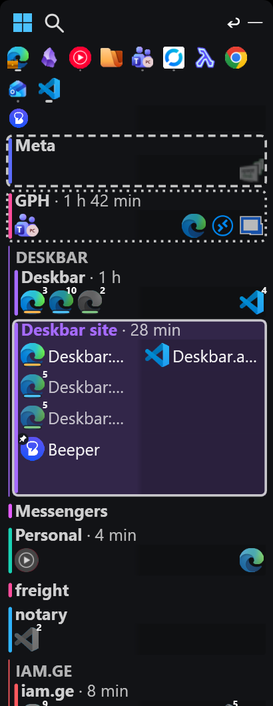
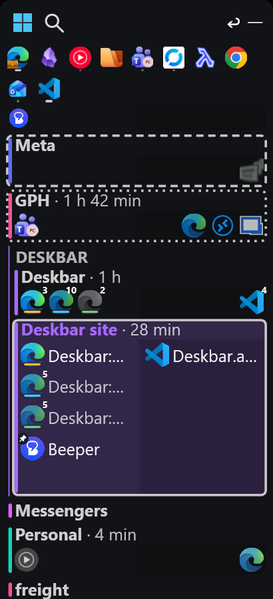
Show the bar's lower part under the hero
The hero now shows the same capture in two cuts: the pins and workspace
rows fading out, then the lower part fading in below it, with the usage
meters, now playing, tray, volume, notifications and clock. The rows in
between are left out rather than stitched together.

*opus5.5*

diff --git a/site/index.html b/site/index.html
@@ -114,27 +114,42 @@
           a 150% display, 410 pixels wide. Windows drew it natively at that size, so the 1.5x
           file is shown pixel for pixel at 273 points, with the text at its true weight.
           Shrinking a bigger render thins the strokes and stretching a smaller one blurs them,
-          which is why neither is done. bar-hero-273.png is the same capture reduced for 1x
+          which is why neither is done. The -273 files are the same capture reduced for 1x
           screens.
+
+          The whole bar is too tall for the first screen, so it is shown as two cuts of that
+          one capture: the top (pins and workspace rows) fading out, and the lower part (usage
+          meters, now playing, tray, volume, notifications and clock) fading in below it. The
+          rows in between are left out; nothing is pieced together into one seamless image.
 
           It was checked for private details before use: the one window title with a person's
           name was shown as plain "Beeper" through Deskbar's own Rename this window for the
-          capture, and the bar was cropped above its meters and now-playing line. If it is
-          ever replaced, replace it with a real capture made the same way, never a made-up one.
+          capture, and the now-playing line shows a public song. If it is ever replaced,
+          replace it with a real capture made the same way, never a made-up one.
         -->
         <figure class="hero-shot">
           <div class="screen">
-            <img
-              src="/img/bar-hero-273.png"
-              srcset="/img/bar-hero-273.png 1x, /img/bar-hero-410.png 1.5x"
-              width="273"
-              height="706"
-              alt="The floating bar: pinned apps along the top, then one row per workspace with its name above the icons of its windows. The current workspace, Deskbar site, is tinted, ringed and opened into a list of its windows with their titles; the rows you came from are ringed in dashes and dots. Groups of workspaces have a line down their left edge."
-            />
-            <!-- The switching chord, drawn crisp in CSS, floating off the bar's lower corner. -->
-            <div class="chord-chip" aria-hidden="true">
-              <kbd>Win</kbd><span>+</span><kbd>Ctrl</kbd><span>+</span><kbd class="tap">Tab</kbd>
+            <div class="bar-top">
+              <img
+                src="/img/bar-hero-273.png"
+                srcset="/img/bar-hero-273.png 1x, /img/bar-hero-410.png 1.5x"
+                width="273"
+                height="599"
+                alt="The floating bar: pinned apps along the top, then one row per workspace with its name above the icons of its windows. The current workspace, Deskbar site, is tinted, ringed and opened into a list of its windows with their titles; the rows you came from are ringed in dashes and dots. Groups of workspaces have a line down their left edge."
+              />
+              <!-- The switching chord, drawn crisp in CSS, floating off the bar's corner. -->
+              <div class="chord-chip" aria-hidden="true">
+                <kbd>Win</kbd><span>+</span><kbd>Ctrl</kbd><span>+</span><kbd class="tap">Tab</kbd>
+              </div>
             </div>
+            <img
+              class="bar-lower"
+              src="/img/bar-lower-273.png"
+              srcset="/img/bar-lower-273.png 1x, /img/bar-lower-410.png 1.5x"
+              width="273"
+              height="154"
+              alt="The bottom of the same bar: CPU, memory, disk and GPU usage with small graphs, a now-playing line with the track, artist and playback buttons, and the strip with the tray chevron, wifi, a volume dial, the notification bell, the input language and the clock."
+            />
           </div>
         </figure>
 

diff --git a/site/css/home.css b/site/css/home.css
@@ -150,17 +150,33 @@
   position: relative;
 }
 
-/* Shown at exactly 273 CSS pixels, so the 410-pixel file lands pixel for pixel on a 150%
-   screen. Never let the layout scale it, or the softness comes back. */
+/* Both pieces are shown at exactly 273 CSS pixels, so the 410-pixel files land pixel for
+   pixel on a 150% screen. Never let the layout scale them, or the softness comes back. */
 .screen img {
   display: block;
   width: 273px;
   max-width: none;
   height: auto;
+}
+
+/* The top piece (pins and rows) fades out where its cut ends; the keycaps hang off it. */
+.bar-top {
+  position: relative;
+}
+
+.bar-top img {
   border-radius: 14px 14px 0 0;
-  box-shadow: 0 0 0 1px rgb(255 255 255 / 0.08), 0 40px 80px -20px rgb(0 0 0 / 0.85);
-  -webkit-mask-image: linear-gradient(#000 82%, transparent);
-  mask-image: linear-gradient(#000 82%, transparent);
+  -webkit-mask-image: linear-gradient(#000 84%, transparent);
+  mask-image: linear-gradient(#000 84%, transparent);
+}
+
+/* The lower piece (usage, now playing, the tray strip) fades in from its own cut, a little
+   below, so the two read as two parts of one bar with the middle rows left out. */
+.bar-lower {
+  margin-top: 12px;
+  border-radius: 0 0 14px 14px;
+  -webkit-mask-image: linear-gradient(transparent, #000 26%);
+  mask-image: linear-gradient(transparent, #000 26%);
 }
 
 /* The switching chord as glassy keycaps, floating off the bar's lower right corner. */

diff --git a/README.md b/README.md
@@ -36,7 +36,8 @@ npx serve site
   and never one that shows a real person's name or a private window title. The hero is
   a native capture of the floating bar at `"BarScale": 1.2` on a 150% display (410
   pixels), shown 273 points wide so that file lands pixel for pixel, plus a 273-pixel
-  copy for 1x screens.
+  copy for 1x screens. It is shown as two cuts of the one capture, the top and the lower
+  part, never stitched into a bar that did not exist.
 - Deskbar is "source available", never "open source".
 - Nothing loads from another origin. The Content-Security-Policy meta tag in each page blocks
   it anyway, so a third-party script or font fails in the browser rather than shipping.
